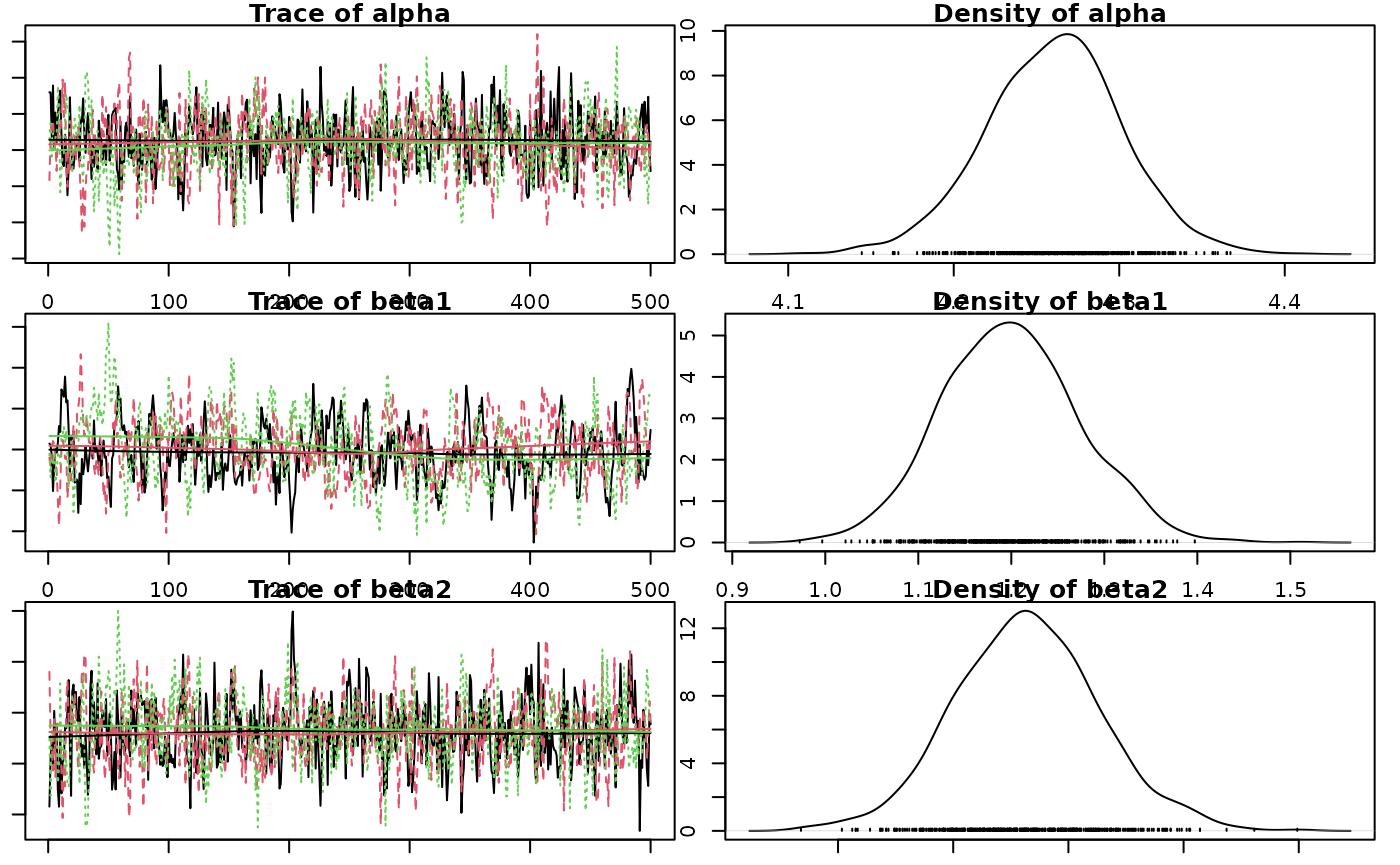
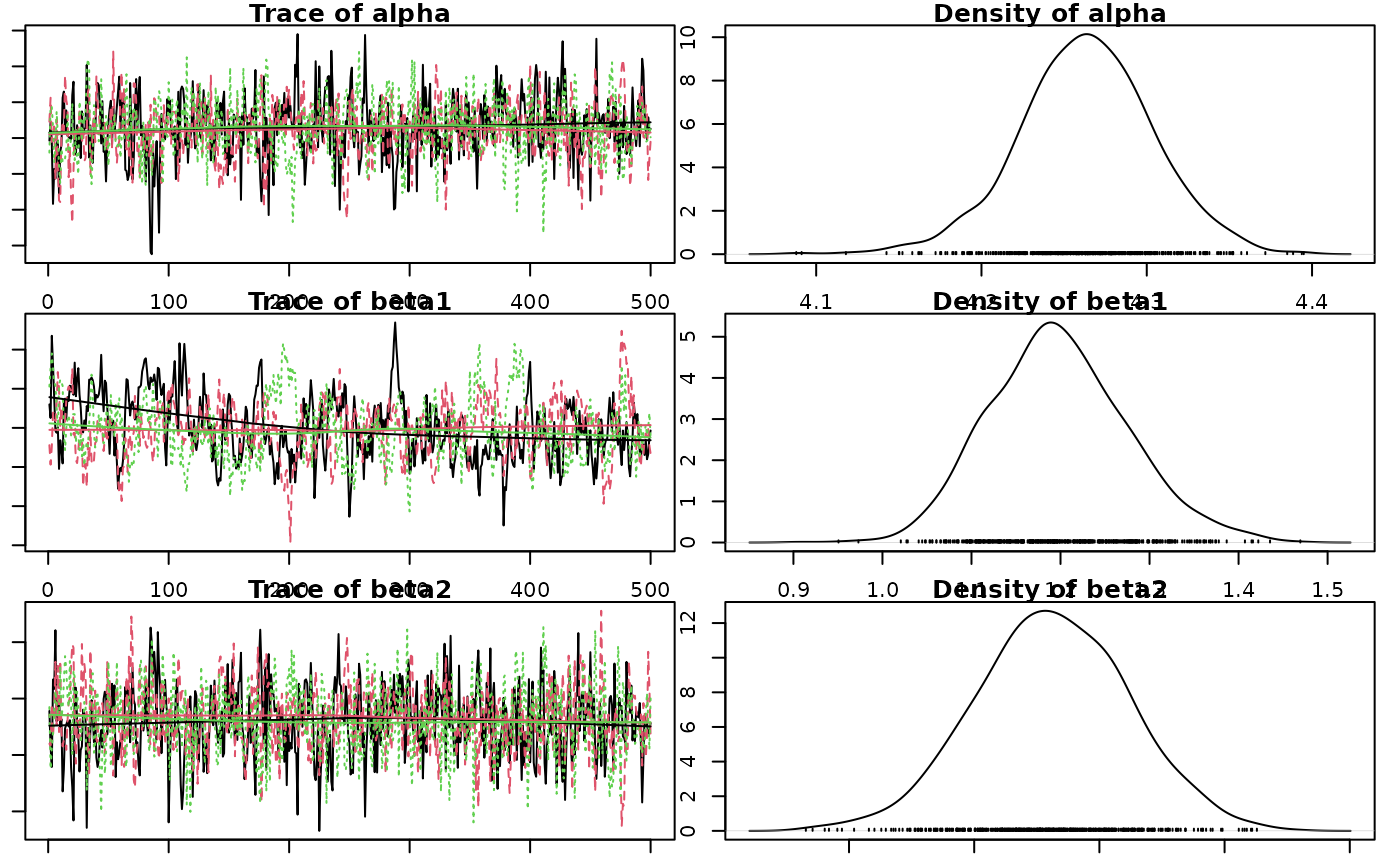
Deploying to gh-pages from @ poissonconsulting/jmbr@a37d30df0117227b6b012650a15c960bd5309375 🚀

diff --git a/articles/jmbr.html b/articles/jmbr.html
@@ -290,14 +290,14 @@ value and discarding all other values.</p>
 <span><span class="co">#&gt; <span style="color: #949494;"># A tibble: 1 × 8</span></span></span>
 <span><span class="co">#&gt;       n     K nchains niters nthin   ess  rhat converged</span></span>
 <span><span class="co">#&gt;   <span style="color: #949494; font-style: italic;">&lt;int&gt;</span> <span style="color: #949494; font-style: italic;">&lt;int&gt;</span>   <span style="color: #949494; font-style: italic;">&lt;int&gt;</span>  <span style="color: #949494; font-style: italic;">&lt;int&gt;</span> <span style="color: #949494; font-style: italic;">&lt;int&gt;</span> <span style="color: #949494; font-style: italic;">&lt;int&gt;</span> <span style="color: #949494; font-style: italic;">&lt;dbl&gt;</span> <span style="color: #949494; font-style: italic;">&lt;lgl&gt;</span>    </span></span>
-<span><span class="co">#&gt; <span style="color: #BCBCBC;">1</span>    40     6       3    500    10   284  1.04 TRUE</span></span>
+<span><span class="co">#&gt; <span style="color: #BCBCBC;">1</span>    40     6       3    500    10   171  1.02 TRUE</span></span>
 <span><span class="co">#&gt; Warning in value[[3L]](cond): beep() could not play the sound due to the following error:</span></span>
 <span><span class="co">#&gt; Error in play.default(x, rate, ...): no audio drivers are available</span></span>
 <span><span class="va">analysis</span> <span class="op">&lt;-</span> <span class="fu"><a href="https://rdrr.io/pkg/mbr/man/reanalyse.html" class="external-link">reanalyse</a></span><span class="op">(</span><span class="va">analysis</span><span class="op">)</span></span>
 <span><span class="co">#&gt; <span style="color: #949494;"># A tibble: 1 × 8</span></span></span>
 <span><span class="co">#&gt;       n     K nchains niters nthin   ess  rhat converged</span></span>
 <span><span class="co">#&gt;   <span style="color: #949494; font-style: italic;">&lt;int&gt;</span> <span style="color: #949494; font-style: italic;">&lt;int&gt;</span>   <span style="color: #949494; font-style: italic;">&lt;int&gt;</span>  <span style="color: #949494; font-style: italic;">&lt;int&gt;</span> <span style="color: #949494; font-style: italic;">&lt;int&gt;</span> <span style="color: #949494; font-style: italic;">&lt;int&gt;</span> <span style="color: #949494; font-style: italic;">&lt;dbl&gt;</span> <span style="color: #949494; font-style: italic;">&lt;lgl&gt;</span>    </span></span>
-<span><span class="co">#&gt; <span style="color: #BCBCBC;">1</span>    40     6       3    500    10   284  1.04 TRUE</span></span>
+<span><span class="co">#&gt; <span style="color: #BCBCBC;">1</span>    40     6       3    500    10   171  1.02 TRUE</span></span>
 <span><span class="co">#&gt; Warning in value[[3L]](cond): beep() could not play the sound due to the following error:</span></span>
 <span><span class="co">#&gt; Error in play.default(x, rate, ...): no audio drivers are available</span></span></code></pre></div>
 <p><strong>Analysis Table:</strong></p>
@@ -347,12 +347,12 @@ between- and within-chain estimates for model parameters.
 <span><span class="co">#&gt; <span style="color: #949494;"># A tibble: 6 × 7</span></span></span>
 <span><span class="co">#&gt;   term        estimate     sd  zscore   lower   upper   pvalue</span></span>
 <span><span class="co">#&gt;   <span style="color: #949494; font-style: italic;">&lt;term&gt;</span>         <span style="color: #949494; font-style: italic;">&lt;dbl&gt;</span>  <span style="color: #949494; font-style: italic;">&lt;dbl&gt;</span>   <span style="color: #949494; font-style: italic;">&lt;dbl&gt;</span>   <span style="color: #949494; font-style: italic;">&lt;dbl&gt;</span>   <span style="color: #949494; font-style: italic;">&lt;dbl&gt;</span>    <span style="color: #949494; font-style: italic;">&lt;dbl&gt;</span></span></span>
-<span><span class="co">#&gt; <span style="color: #BCBCBC;">1</span> alpha         4.26   0.041<span style="text-decoration: underline;">1</span> 104.     4.18    4.34   0.000<span style="text-decoration: underline;">666</span></span></span>
-<span><span class="co">#&gt; <span style="color: #BCBCBC;">2</span> beta1         1.20   0.074<span style="text-decoration: underline;">0</span>  16.2    1.06    1.35   0.000<span style="text-decoration: underline;">666</span></span></span>
-<span><span class="co">#&gt; <span style="color: #BCBCBC;">3</span> beta2        -<span style="color: #BB0000;">0.018</span><span style="color: #BB0000; text-decoration: underline;">3</span> 0.031<span style="text-decoration: underline;">3</span>  -<span style="color: #BB0000;">0.580</span> -<span style="color: #BB0000;">0.078</span><span style="color: #BB0000; text-decoration: underline;">9</span>  0.046<span style="text-decoration: underline;">8</span> 0.544   </span></span>
-<span><span class="co">#&gt; <span style="color: #BCBCBC;">4</span> beta3        -<span style="color: #BB0000;">0.274</span>  0.037<span style="text-decoration: underline;">7</span>  -<span style="color: #BB0000;">7.29</span>  -<span style="color: #BB0000;">0.351</span>  -<span style="color: #BB0000;">0.204</span>  0.000<span style="text-decoration: underline;">666</span></span></span>
-<span><span class="co">#&gt; <span style="color: #BCBCBC;">5</span> log_sAnnual  -<span style="color: #BB0000;">2.19</span>   0.283   -<span style="color: #BB0000;">7.86</span>  -<span style="color: #BB0000;">2.83</span>   -<span style="color: #BB0000;">1.75</span>   0.000<span style="text-decoration: underline;">666</span></span></span>
-<span><span class="co">#&gt; <span style="color: #BCBCBC;">6</span> sAnnual       0.112  0.030<span style="text-decoration: underline;">4</span>   3.72   0.058<span style="text-decoration: underline;">8</span>  0.174  0.000<span style="text-decoration: underline;">666</span></span></span></code></pre></div>
+<span><span class="co">#&gt; <span style="color: #BCBCBC;">1</span> alpha         4.26   0.040<span style="text-decoration: underline;">8</span> 104.     4.18    4.34   0.000<span style="text-decoration: underline;">666</span></span></span>
+<span><span class="co">#&gt; <span style="color: #BCBCBC;">2</span> beta1         1.19   0.077<span style="text-decoration: underline;">2</span>  15.5    1.06    1.36   0.000<span style="text-decoration: underline;">666</span></span></span>
+<span><span class="co">#&gt; <span style="color: #BCBCBC;">3</span> beta2        -<span style="color: #BB0000;">0.019</span><span style="color: #BB0000; text-decoration: underline;">2</span> 0.030<span style="text-decoration: underline;">6</span>  -<span style="color: #BB0000;">0.623</span> -<span style="color: #BB0000;">0.081</span><span style="color: #BB0000; text-decoration: underline;">1</span>  0.040<span style="text-decoration: underline;">8</span> 0.547   </span></span>
+<span><span class="co">#&gt; <span style="color: #BCBCBC;">4</span> beta3        -<span style="color: #BB0000;">0.273</span>  0.039<span style="text-decoration: underline;">5</span>  -<span style="color: #BB0000;">6.95</span>  -<span style="color: #BB0000;">0.354</span>  -<span style="color: #BB0000;">0.201</span>  0.000<span style="text-decoration: underline;">666</span></span></span>
+<span><span class="co">#&gt; <span style="color: #BCBCBC;">5</span> log_sAnnual  -<span style="color: #BB0000;">2.24</span>   0.291   -<span style="color: #BB0000;">7.76</span>  -<span style="color: #BB0000;">2.87</span>   -<span style="color: #BB0000;">1.78</span>   0.000<span style="text-decoration: underline;">666</span></span></span>
+<span><span class="co">#&gt; <span style="color: #BCBCBC;">6</span> sAnnual       0.106  0.030<span style="text-decoration: underline;">1</span>   3.61   0.056<span style="text-decoration: underline;">9</span>  0.169  0.000<span style="text-decoration: underline;">666</span></span></span></code></pre></div>
 <p>The estimate is the <strong>median</strong> by default.</p>
 <p>The zscore is <span class="math inline">\(mean / sd\)</span>.</p>
 <div class="sourceCode" id="cb12"><pre class="downlit sourceCode r">
@@ -361,11 +361,11 @@ between- and within-chain estimates for model parameters.
 <span><span class="co">#&gt;   term        estimate   lower   upper svalue</span></span>
 <span><span class="co">#&gt;   <span style="color: #949494; font-style: italic;">&lt;term&gt;</span>         <span style="color: #949494; font-style: italic;">&lt;dbl&gt;</span>   <span style="color: #949494; font-style: italic;">&lt;dbl&gt;</span>   <span style="color: #949494; font-style: italic;">&lt;dbl&gt;</span>  <span style="color: #949494; font-style: italic;">&lt;dbl&gt;</span></span></span>
 <span><span class="co">#&gt; <span style="color: #BCBCBC;">1</span> alpha         4.26    4.18    4.34   10.6  </span></span>
-<span><span class="co">#&gt; <span style="color: #BCBCBC;">2</span> beta1         1.20    1.06    1.35   10.6  </span></span>
-<span><span class="co">#&gt; <span style="color: #BCBCBC;">3</span> beta2        -<span style="color: #BB0000;">0.018</span><span style="color: #BB0000; text-decoration: underline;">3</span> -<span style="color: #BB0000;">0.078</span><span style="color: #BB0000; text-decoration: underline;">9</span>  0.046<span style="text-decoration: underline;">8</span>  0.878</span></span>
-<span><span class="co">#&gt; <span style="color: #BCBCBC;">4</span> beta3        -<span style="color: #BB0000;">0.274</span>  -<span style="color: #BB0000;">0.351</span>  -<span style="color: #BB0000;">0.204</span>  10.6  </span></span>
-<span><span class="co">#&gt; <span style="color: #BCBCBC;">5</span> log_sAnnual  -<span style="color: #BB0000;">2.19</span>   -<span style="color: #BB0000;">2.83</span>   -<span style="color: #BB0000;">1.75</span>   10.6  </span></span>
-<span><span class="co">#&gt; <span style="color: #BCBCBC;">6</span> sAnnual       0.112   0.058<span style="text-decoration: underline;">8</span>  0.174  10.6</span></span></code></pre></div>
+<span><span class="co">#&gt; <span style="color: #BCBCBC;">2</span> beta1         1.19    1.06    1.36   10.6  </span></span>
+<span><span class="co">#&gt; <span style="color: #BCBCBC;">3</span> beta2        -<span style="color: #BB0000;">0.019</span><span style="color: #BB0000; text-decoration: underline;">2</span> -<span style="color: #BB0000;">0.081</span><span style="color: #BB0000; text-decoration: underline;">1</span>  0.040<span style="text-decoration: underline;">8</span>  0.870</span></span>
+<span><span class="co">#&gt; <span style="color: #BCBCBC;">4</span> beta3        -<span style="color: #BB0000;">0.273</span>  -<span style="color: #BB0000;">0.354</span>  -<span style="color: #BB0000;">0.201</span>  10.6  </span></span>
+<span><span class="co">#&gt; <span style="color: #BCBCBC;">5</span> log_sAnnual  -<span style="color: #BB0000;">2.24</span>   -<span style="color: #BB0000;">2.87</span>   -<span style="color: #BB0000;">1.78</span>   10.6  </span></span>
+<span><span class="co">#&gt; <span style="color: #BCBCBC;">6</span> sAnnual       0.106   0.056<span style="text-decoration: underline;">9</span>  0.169  10.6</span></span></code></pre></div>
 <p>The s-value is the <strong>suprisal</strong> value, which is a
 measure of directionality with respect to zero.</p>
 <p>The s-value is zero (unsurprising) when <em>p-value</em> = 1.0 and
